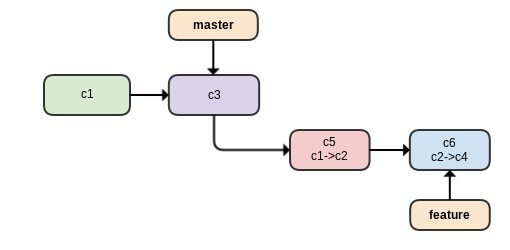
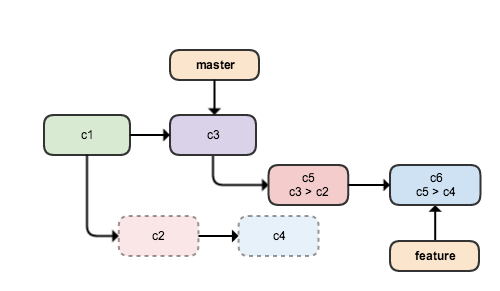
Numerous updates to Git slides

diff --git a/public/git/slides.html b/public/git/slides.html
@@ -1,10 +1,15 @@
-
 <section>
-    <h2>Gitting More Out of Git</h2>
-    <p style='margin-top: 3em'>Jordan Kasper</p>
-    <p class='fine'>
-        <a href='http://twitter.com/jakerella'>@jakerella</a>
-    </p>
+    <section>
+        <h2>Gitting More Out of Git</h2>
+        <p style='margin-top: 3em'>Jordan Kasper</p>
+        <p class='fine'>
+            <a href='http://twitter.com/jakerella'>@jakerella</a>
+        </p>
+    </section>
+
+    @include company
+
+    @include me
 </section>
 
 <section data-background='#fff'>
@@ -99,10 +104,16 @@ origin  https://github.com/jakerella/repo-name.git (push)
         <div class='fragment'>
             <pre><code class='no-highlight' data-trim>
 ~$ git checkout -b new-feature
-~$ git push -u origin new-feature
+~$ git branch --set-upstream-to=origin/new-feature
             </code></pre>
 
-            <p>The <code>-u</code> option sets the "upstream" remote repo to track.</p>
+            <pre class='fragment'><code class='no-highlight' data-trim>
+~$ git branch -u origin/new-feature
+            </code></pre>
+
+            <pre class='fragment'><code class='no-highlight' data-trim>
+~$ git push -u origin new-feature
+            </code></pre>
 
             <pre class='fragment'><code class='no-highlight' data-trim>
 ~$ git branch -vv
@@ -144,24 +155,7 @@ jquery-source  https://github.com/jquery/jquery.git (push)
 <section>
 
     <section>
-        <h3>MOAR Branches</h3>
-    </section>
-
-    <section>
-        <h4>Listing Branches</h4>
-
-        <pre><code class='no-highlight' data-trim>
-~$ git branch
-  hot-fix
-* master
-  new-feature
-  stuff
-        </code></pre>
-
-        <pre class='fragment'><code class='no-highlight' data-trim>
-~$ git branch --no-merged
-stuff
-        </code></pre>
+        <h2>Branch Differences</h2>
     </section>
 
     <section>
@@ -182,9 +176,19 @@ diff --git a/STUFF.md b/STUFF.md
 <strong>new file mode 100644</strong>
 index 0000000..e69de29
         </code></pre>
+    </section>
 
-        <p class='fragment'>
-            This is ALL changes between <code>master</code> and <code>stuff</code><br>
+    <section>
+        <h4>Branch Differences</h4>
+
+        <pre><code class='no-highlight' data-trim>
+~$ git diff master stuff
+        </code></pre>
+
+        <p>
+            This is ALL changes between <code>master</code> and <code>stuff</code>
+        </p>
+        <p>
             (regardless of what branch those came from).
         </p>
     </section>
@@ -370,7 +374,7 @@ pick fd0091e This is the best.
         </code></pre>
     </section>
 
-    <section class='cut-me-1'>
+    <section class='cut-me-2'>
         <h4>Interactive Rebasing</h4>
 
         <pre><code class='no-highlight' data-trim data-noescape>
@@ -394,7 +398,7 @@ pick fd0091e This is the best.
         </code></pre>
     </section>
 
-    <section class='cut-me-1'>
+    <section class='cut-me-2'>
         <pre><code class='no-highlight' data-trim data-noescape>
 ~$ git rebase --interactive HEAD^^^
 <strong>Stopped at 72267fc26d88fa977d24760252da63b46ca3b81a... I did a thing!</strong>
@@ -414,7 +418,7 @@ Successfully rebased and updated refs/heads/new-feature.
         </div>
     </section>
 
-    <section class='cut-me-1'>
+    <section class='cut-me-2'>
         <p class='illuminate'>Careful! You've just changed<br><strong>ALL history</strong> from that point forward.</p>
 
         <pre><code class='no-highlight' data-trim data-noescape>
@@ -464,9 +468,12 @@ fd0091e HEAD@{9}: commit: This is the best
 nothing to commit (working directory clean)
         </code></pre>
 
-        <pre class='fragment'><code class='no-highlight' data-trim data-noescape>
+        <div  class='fragment'>
+            <p class='fine'>You can also `checkout` entire directories:</p>
+            <pre><code class='no-highlight' data-trim data-noescape>
 ~$ git checkout src/js/
-        </code></pre>
+            </code></pre>
+        </div>
     </section>
 
     <section>
@@ -477,8 +484,18 @@ nothing to commit (working directory clean)
         </p>
 
         <pre><code class='no-highlight' data-trim data-noescape>
-~$ git checkout content/
-~$ rm NewFile.md
+~$ git checkout src/js/
+~$ git status
+On branch master
+
+Untracked files:
+  (use "git add &lt;file>..." to include in what will be committed)
+
+       	src/js/foobar.js
+        </code></pre>
+
+        <pre class='fragment'><code class='no-highlight' data-trim data-noescape>
+~$ rm src/js/foobar.js
         </code></pre>
     </section>
 
@@ -491,24 +508,6 @@ nothing to commit (working directory clean)
         </code></pre>
 
         <pre class='fragment'><code class='no-highlight' data-trim data-noescape>
-~$ git status
-# On branch new-feature
-# Changes to be committed:
-#   (use "git reset HEAD &lt;file&gt;..." to unstage)
-#
-#   modified:   README.md
-        </code></pre>
-    </section>
-
-    <section data-transition='none'>
-        <h4>Staged Changes</h4>
-
-        <pre><code class='no-highlight' data-trim data-noescape>
-~$ echo "foobar" &gt;&gt; README.md
-~$ git add README.md
-        </code></pre>
-
-        <pre><code class='no-highlight' data-trim data-noescape>
 ~$ git status
 # On branch new-feature
 # Changes to be committed:
@@ -537,13 +536,21 @@ nothing to commit (working directory clean)
     </section>
 
     <section>
+        <h3><code>HEAD</code> is just a reference to the commit<br>at the end of the current branch!</h3>
+    </section>
+
+    <section>
+        <h3>So what is "staging" and "working directory"?</h3>
+    </section>
+
+    <section>
         <h4>Remember the Three States!</h4>
 
         <img src='images/git_checkout-commit.png' alt='checkout and push workflow diagram' style='width:60%;'>
     </section>
 
     <section>
-        <h3>Committed Changes</h3>
+        <h3>Undoing Committed Changes</h3>
         <p style='margin-top:3em' class='fine'>(a.k.a. Oops)</p>
     </section>
 
@@ -568,12 +575,20 @@ this is not a good change
     </section>
 
     <section>
+      <h2>Using <code>reset</code></h2>
+    </section>
+
+    <section data-transition='none'>
         <h4>Understanding the Three Seashells</h4>
 
         <img src='images/git_reset-1.png' alt='three states of a git repo' style='width:70%;'>
+
+        <p>&nbsp;</p>
     </section>
 
-    <section>
+    <section data-transition='none'>
+        <h4>Understanding the Three Seashells</h4>
+
         <img src='images/git_reset-2.png' alt='soft reset diagram' style='width:70%;'>
 
         <p><code>git reset --soft HEAD^</code></p>
@@ -697,6 +712,13 @@ e098369 HEAD@{4}: checkout: moving from master to new-feature
 b9bdb02 HEAD@{5}: commit: a really good change
 e098369 HEAD@{6}: pull: Fast-forward
         </code></pre>
+
+        <pre class='fragment'><code class='no-highlight' data-trim data-noescape>
+~$ git log --oneline
+<strong>d42c386</strong> this is not a good change
+<strong>b86e65d</strong> the immediately previous change (totally normal)
+<strong>b9bdb02</strong> a really good change
+        </code></pre>
     </section>
 
     <section>
@@ -730,21 +752,24 @@ e098369 HEAD@{6}: pull: Fast-forward
 
         <pre class='fragment'><code class='no-highlight' data-trim data-noescape>
 ~$ git checkout -b hot-fix-123
+        </code></pre>
 
+        <pre class='fragment'><code class='no-highlight' data-trim data-noescape>
 ~$ git status
-# On branch hot-fix-123
-# <strong>Changes not staged for commit:</strong>
-#   (use "git add &lt;file&gt;..." to update what will be committed)
-#   (use "git checkout -- &lt;file&gt;..." to discard changes in working directory)
-#
-#   <strong>modified:   some-unrelated-file.js</strong>
+On branch hot-fix-123
+Changes not staged for commit:
+    ...
+    <strong>modified:   borked-code.js</strong>
+    <strong>modified:   some-unrelated-file.js</strong>
+
+Untracked files:
+    ...
+    <strong>new-code.js</strong>
         </code></pre>
     </section>
 
     <section>
         <h4>Using the Stash</h4>
-
-        <p><strong>Before</strong> switching branches...</p>
 
         <div class='fragment'>
             <pre><code class='no-highlight' data-trim data-noescape>
@@ -806,12 +831,15 @@ stash@{2}: On hot-fix-456: attempt to fix bug #456, but incomplete
         </code></pre>
 
         <pre class='fragment'><code class='no-highlight' data-trim data-noescape>
-# On branch new-feature
-# <strong>Changes not staged for commit:</strong>
-#   (use "git add &lt;file&gt;..." to update what will be committed)
-#   (use "git checkout -- &lt;file&gt;..." to discard changes in working directory)
-#
-#   <strong>modified:   some-unrelated-file.js</strong>
+On branch new-feature
+Changes not staged for commit:
+    ...
+    <strong>modified:   borked-code.js</strong>
+    <strong>modified:   some-unrelated-file.js</strong>
+
+Untracked files:
+    ...
+    <strong>new-code.js</strong>
         </code></pre>
 
         <pre class='fragment'><code class='no-highlight' data-trim data-noescape>
@@ -841,13 +869,16 @@ Dropped refs/stash@{0} (a52d9c3ba1121dd94eb3925ba60d3f8ef30540c8)
         </code></pre>
 
         <pre class='fragment'><code class='no-highlight' data-trim data-noescape>
-# On branch new-feature
-# Changes not staged for commit:
-#   (use "git add &lt;file&gt;..." to update what will be committed)
-#   (use "git checkout -- &lt;file&gt;..." to discard changes in working directory)
-#
-#   modified:   some-unrelated-file.js
-...
+On branch new-feature
+Changes not staged for commit:
+    ...
+    modified:   borked-code.js
+    modified:   some-unrelated-file.js
+
+Untracked files:
+    ...
+    new-code.js
+
 <strong>Dropped refs/stash@{0} (a52d9c3ba1121dd94eb3925ba60d3f8ef30540c8)</strong>
         </code></pre>
 
@@ -1136,14 +1167,12 @@ src/js/some-file.js |   13 ++++--+++
 
         <p>When code in <code>feature</code> diverges from the current trunk...</p>
 
-        <div class='fragment'>
-            <img style='margin-right: 3.9em; width:40%;' src='images/git_merge-2.png' alt='git branch diagram with divergent changes'>
+        <img class='fragment' style='margin-right: 3.9em; width:40%;' src='images/git_merge-2.png' alt='git branch diagram with divergent changes'>
 
-            <pre><code class='no-highlight' data-trim data-noescape>
+        <pre class='fragment'><code class='no-highlight' data-trim data-noescape>
 ~$ git checkout master
 ~$ git merge feature
-            </code></pre>
-        </div>
+        </code></pre>
     </section>
 
     <section data-transition='none'>
@@ -1223,7 +1252,7 @@ more common text...
                 <code>~$ git commit</code>
             </li>
             <li class='fragment'>
-                Remove the "orig"inal file from the branch<br>
+                Remove the "orig"inal file from the branch <span class='fine'>(if present)</span><br>
                 <code>~$ rm README.md.orig</code>
             </li>
         </ol>
@@ -1239,11 +1268,6 @@ more common text...
         <h4>Divergent Changes</h4>
 
         <img style='margin: 0.1em 4.8em 0 0; width:40%;' src='images/git_rebase_1.png' alt='git rebase diagram with divergent changes'>
-
-        <pre><code class='no-highlight' data-trim data-noescape>
-~$ git checkout feature
-~$ git rebase master
-        </code></pre>
     </section>
 
     <section data-transition='none'>
@@ -1311,26 +1335,13 @@ Failed to merge in the changes.
 
         <div class='fragment'>
             <p>
-                You can skip an individual conflict...<br>
-                <span class='fine'>(probably not a good idea)</span>
+                You can abort the entire process...
             </p>
 
             <pre><code class='no-highlight' data-trim data-noescape>
-~$ git rebase --skip
+~$ git rebase --abort
             </code></pre>
         </div>
-    </section>
-
-    <section>
-        <h4>Too Much Confliction?</h4>
-
-        <p>
-            Or you can abort the entire process...
-        </p>
-
-        <pre><code class='no-highlight' data-trim data-noescape>
-~$ git rebase --abort
-        </code></pre>
     </section>
 
     <section>
